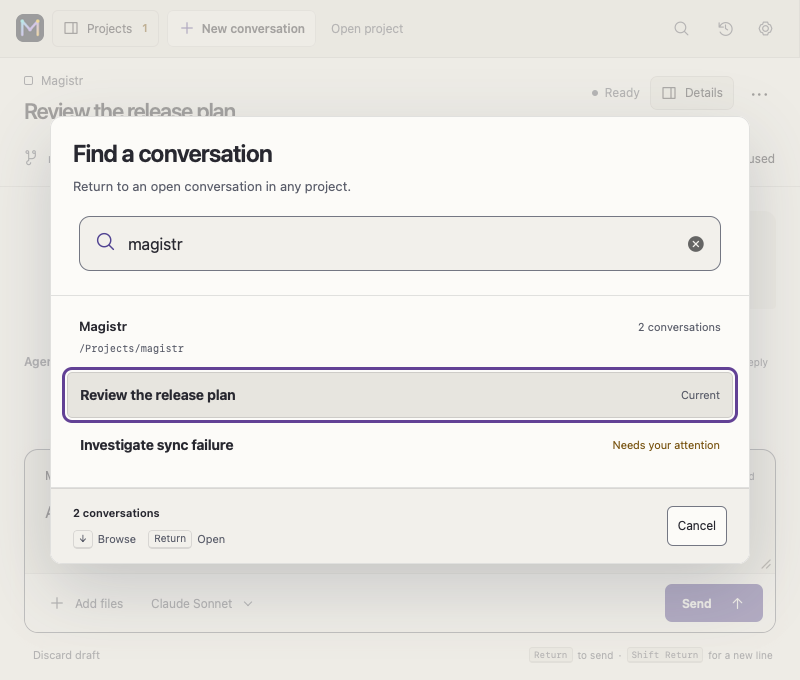
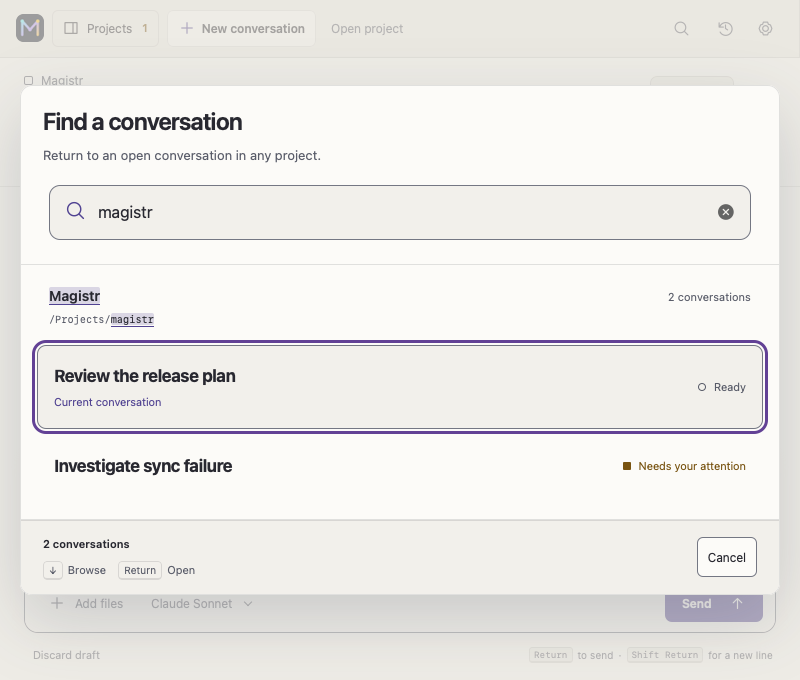
feat(desktop): give conversation search stronger results and literal highlights

Changed region(s): [[0.0, 0.1235, 1.0, 0.8956]]

diff --git a/crates/magistr-desktop/ui/style.css b/crates/magistr-desktop/ui/style.css
@@ -4,15 +4,21 @@
 
 #find-conversation{display:flex;align-items:center;justify-content:space-between;gap:6px;border-color:var(--separator);color:var(--muted);background:var(--base);font-size:12px;padding:8px 10px;flex-shrink:0}
 kbd{font:inherit;font-size:11px;line-height:1.4;color:var(--muted);white-space:nowrap}#find-conversation kbd{font-size:10px}
-#switch-picker{width:700px;padding:0;max-height:calc(100dvh - 56px)}
+#switch-picker{width:760px;padding:0;max-height:calc(100dvh - 56px)}
 #switch-picker[open]{display:flex;flex-direction:column}
 
 .switch-search{padding:0 28px 24px;position:relative}.switch-search>[data-icon]{position:absolute;left:44px;top:15px;width:21px;height:21px;color:var(--accent)}.switch-search input{width:100%;padding:14px 16px 14px 48px;min-height:52px;font-size:16px;border-radius:11px;background:var(--panel)}
 #switch-results{overflow:auto;min-height:0;max-height:420px;padding:0 16px;border-block:1px solid var(--separator);background:var(--base);scroll-padding:12px}
-#switch-results button{display:grid;grid-template-columns:minmax(0,1fr) auto;align-items:center;gap:14px;width:100%;border-color:transparent;background:transparent;padding:12px;margin:4px 0;font-size:13px;border-radius:5px}
-#switch-results button:hover{background:var(--raised)}#switch-results button[aria-current=true]{background:var(--raised);border-color:var(--separator)}
-#switch-results .switch-body{min-width:0}#switch-results strong,#switch-results small{display:block;overflow-wrap:anywhere}#switch-results strong{font-size:14px;letter-spacing:-.02em;line-height:1.4}#switch-results small{color:var(--muted);font-size:10px;margin-top:6px;line-height:1.5}
-.switch-state{display:flex;align-items:center;font-size:11px;color:var(--muted);white-space:nowrap}[aria-current=true]>.switch-state{color:var(--muted)}[data-attention=true]>.switch-state{color:var(--warning)}.switch-footer{justify-content:space-between}
+#switch-results button{display:grid;grid-template-columns:minmax(0,1fr) auto;align-items:center;gap:20px;width:100%;border-color:transparent;background:transparent;padding:18px 16px;margin:6px 0;font-size:13px;border-radius:9px}
+#switch-results button:hover{background:var(--raised)}#switch-results button[aria-current=true]{background:var(--panel);border-color:var(--line)}
+#switch-results .switch-body{min-width:0}#switch-results strong,#switch-results small{display:block;overflow-wrap:anywhere}#switch-results strong{font-size:17px;letter-spacing:-.025em;line-height:1.4}#switch-results small{color:var(--muted);font-size:10px;margin-top:6px;line-height:1.5}
+.switch-state{display:flex;align-items:center;gap:8px;font-size:11px;color:var(--muted);white-space:nowrap}[aria-current=true]>.switch-state{color:var(--muted)}[data-attention=true]>.switch-state{color:var(--warning)}.switch-footer{justify-content:space-between}
+.switch-state::before{content:"";width:6px;height:6px;border:1px solid currentColor;border-radius:50%;flex-shrink:0}
+[data-state=working]>.switch-state{color:var(--success)}[data-state=working]>.switch-state::before{background:currentColor}
+[data-state=waiting]>.switch-state::before{border-radius:1px;background:currentColor}
+[data-state=disconnected]>.switch-state{color:var(--danger)}[data-state=disconnected]>.switch-state::before{border-radius:0;transform:rotate(45deg)}
+#switch-results .switch-current{color:var(--accent);font-size:11px}
+#switch-results mark{color:var(--text);background:color-mix(in srgb,var(--accent) 20%,var(--base));border-radius:2px;text-decoration:underline;text-decoration-color:var(--accent);text-underline-offset:3px}
 .switch-footer p{font-size:11px;margin:0}#switch-count{font-weight:600;color:var(--text)}#switch-hint{display:flex;gap:12px;margin-top:8px}#switch-hint span{display:flex;align-items:center;gap:5px}#switch-hint kbd{font:10px var(--font-ui);border:1px solid var(--separator);border-bottom-width:2px;border-radius:4px;padding:2px 5px;background:var(--panel)}#switch-empty{padding:36px 28px;margin:0;font-size:14px;text-align:center}@media(max-width:600px){#switch-results button{grid-template-columns:minmax(0,1fr);gap:10px}.switch-state{grid-column:1;justify-self:start}.switch-search,.switch-heading{padding-inline:20px}.switch-search>[data-icon]{left:36px}}#switch-error{margin:0 28px 12px;padding:10px;font-size:13px;max-height:100px;overflow:auto}
 #settings{max-height:calc(100dvh - 56px)}#settings[open]{display:flex;flex-direction:column}.settings-heading{flex-shrink:0}.settings-content{min-height:0;overflow:auto;padding:3px}
 .settings-shortcuts{padding:0;margin:0;min-width:0}
@@ -499,7 +505,7 @@ dialog h3{margin:20px 0 10px;font-size:17px}.dialog-actions{display:flex;justify
 .switch-group{padding:16px 0}
 .switch-group+.switch-group{border-top:1px solid var(--separator)}
 .switch-group>header{display:grid;grid-template-columns:minmax(0,1fr) auto;align-items:baseline;gap:5px 12px;padding:4px 12px 12px}
-.switch-group h3{font-size:13px;font-weight:600;margin:0}
+.switch-group h3{font-size:14px;font-weight:600;margin:0}
 .switch-group header>span{font-size:11px;color:var(--muted);font-variant-numeric:tabular-nums}
 .switch-group header>p{grid-column:1/-1;font:10px/1.5 var(--font-code);overflow-wrap:anywhere;margin:0;color:var(--muted)}
 
